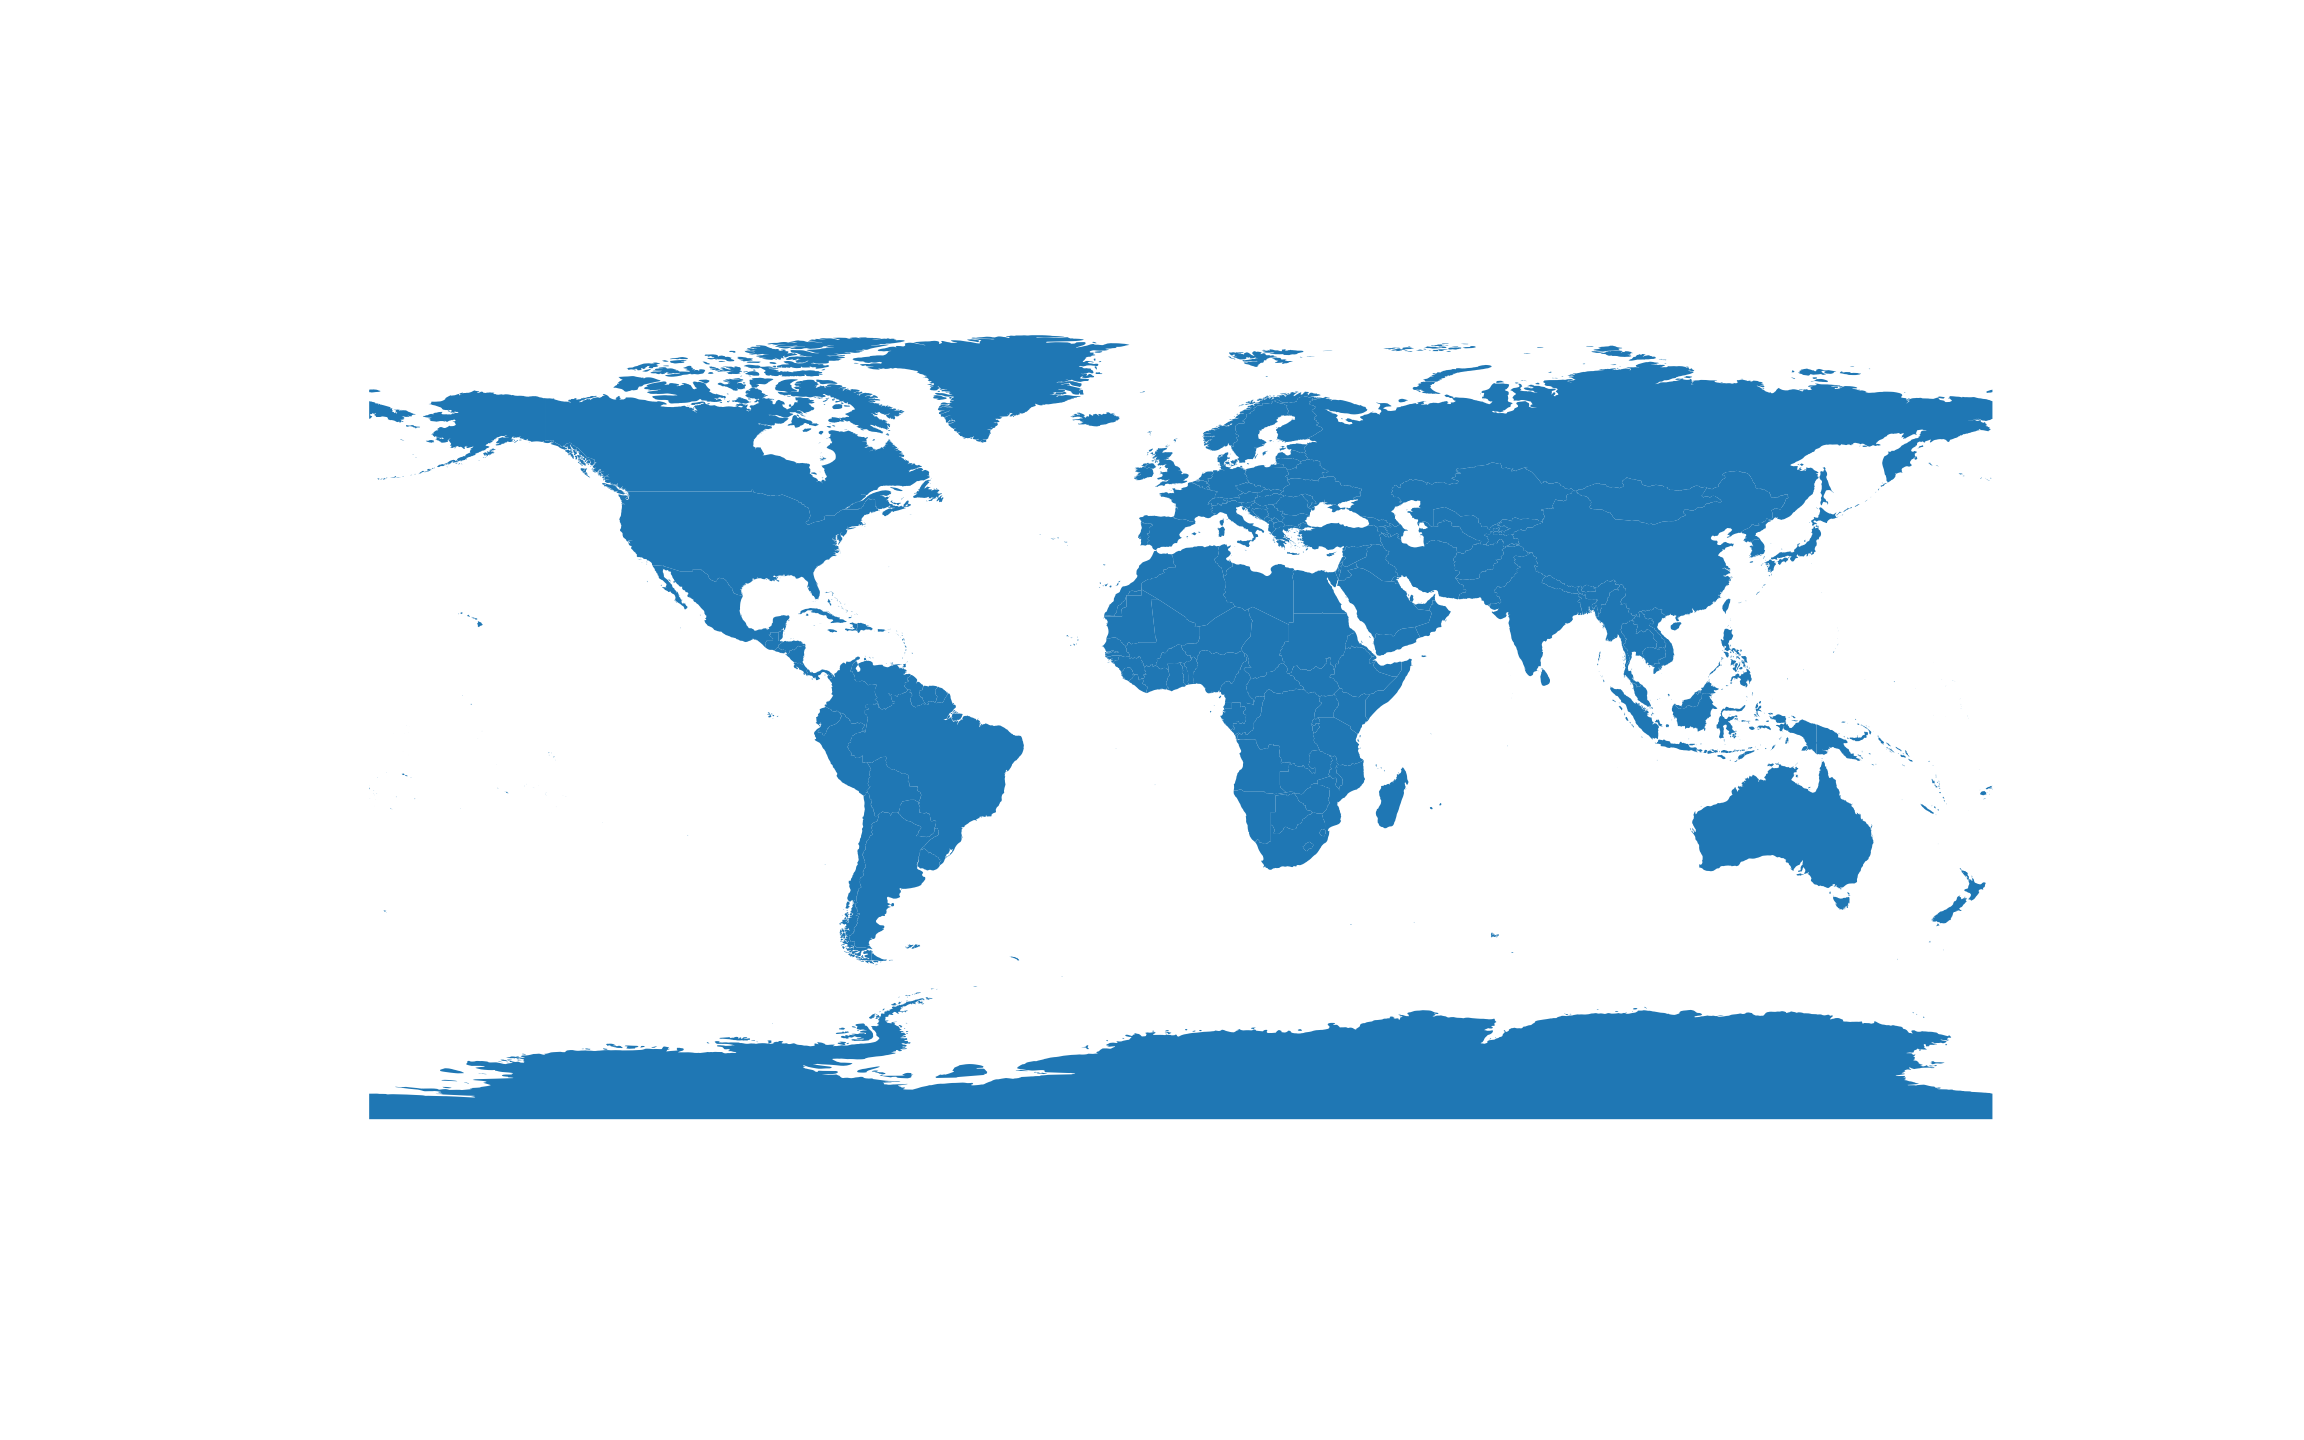
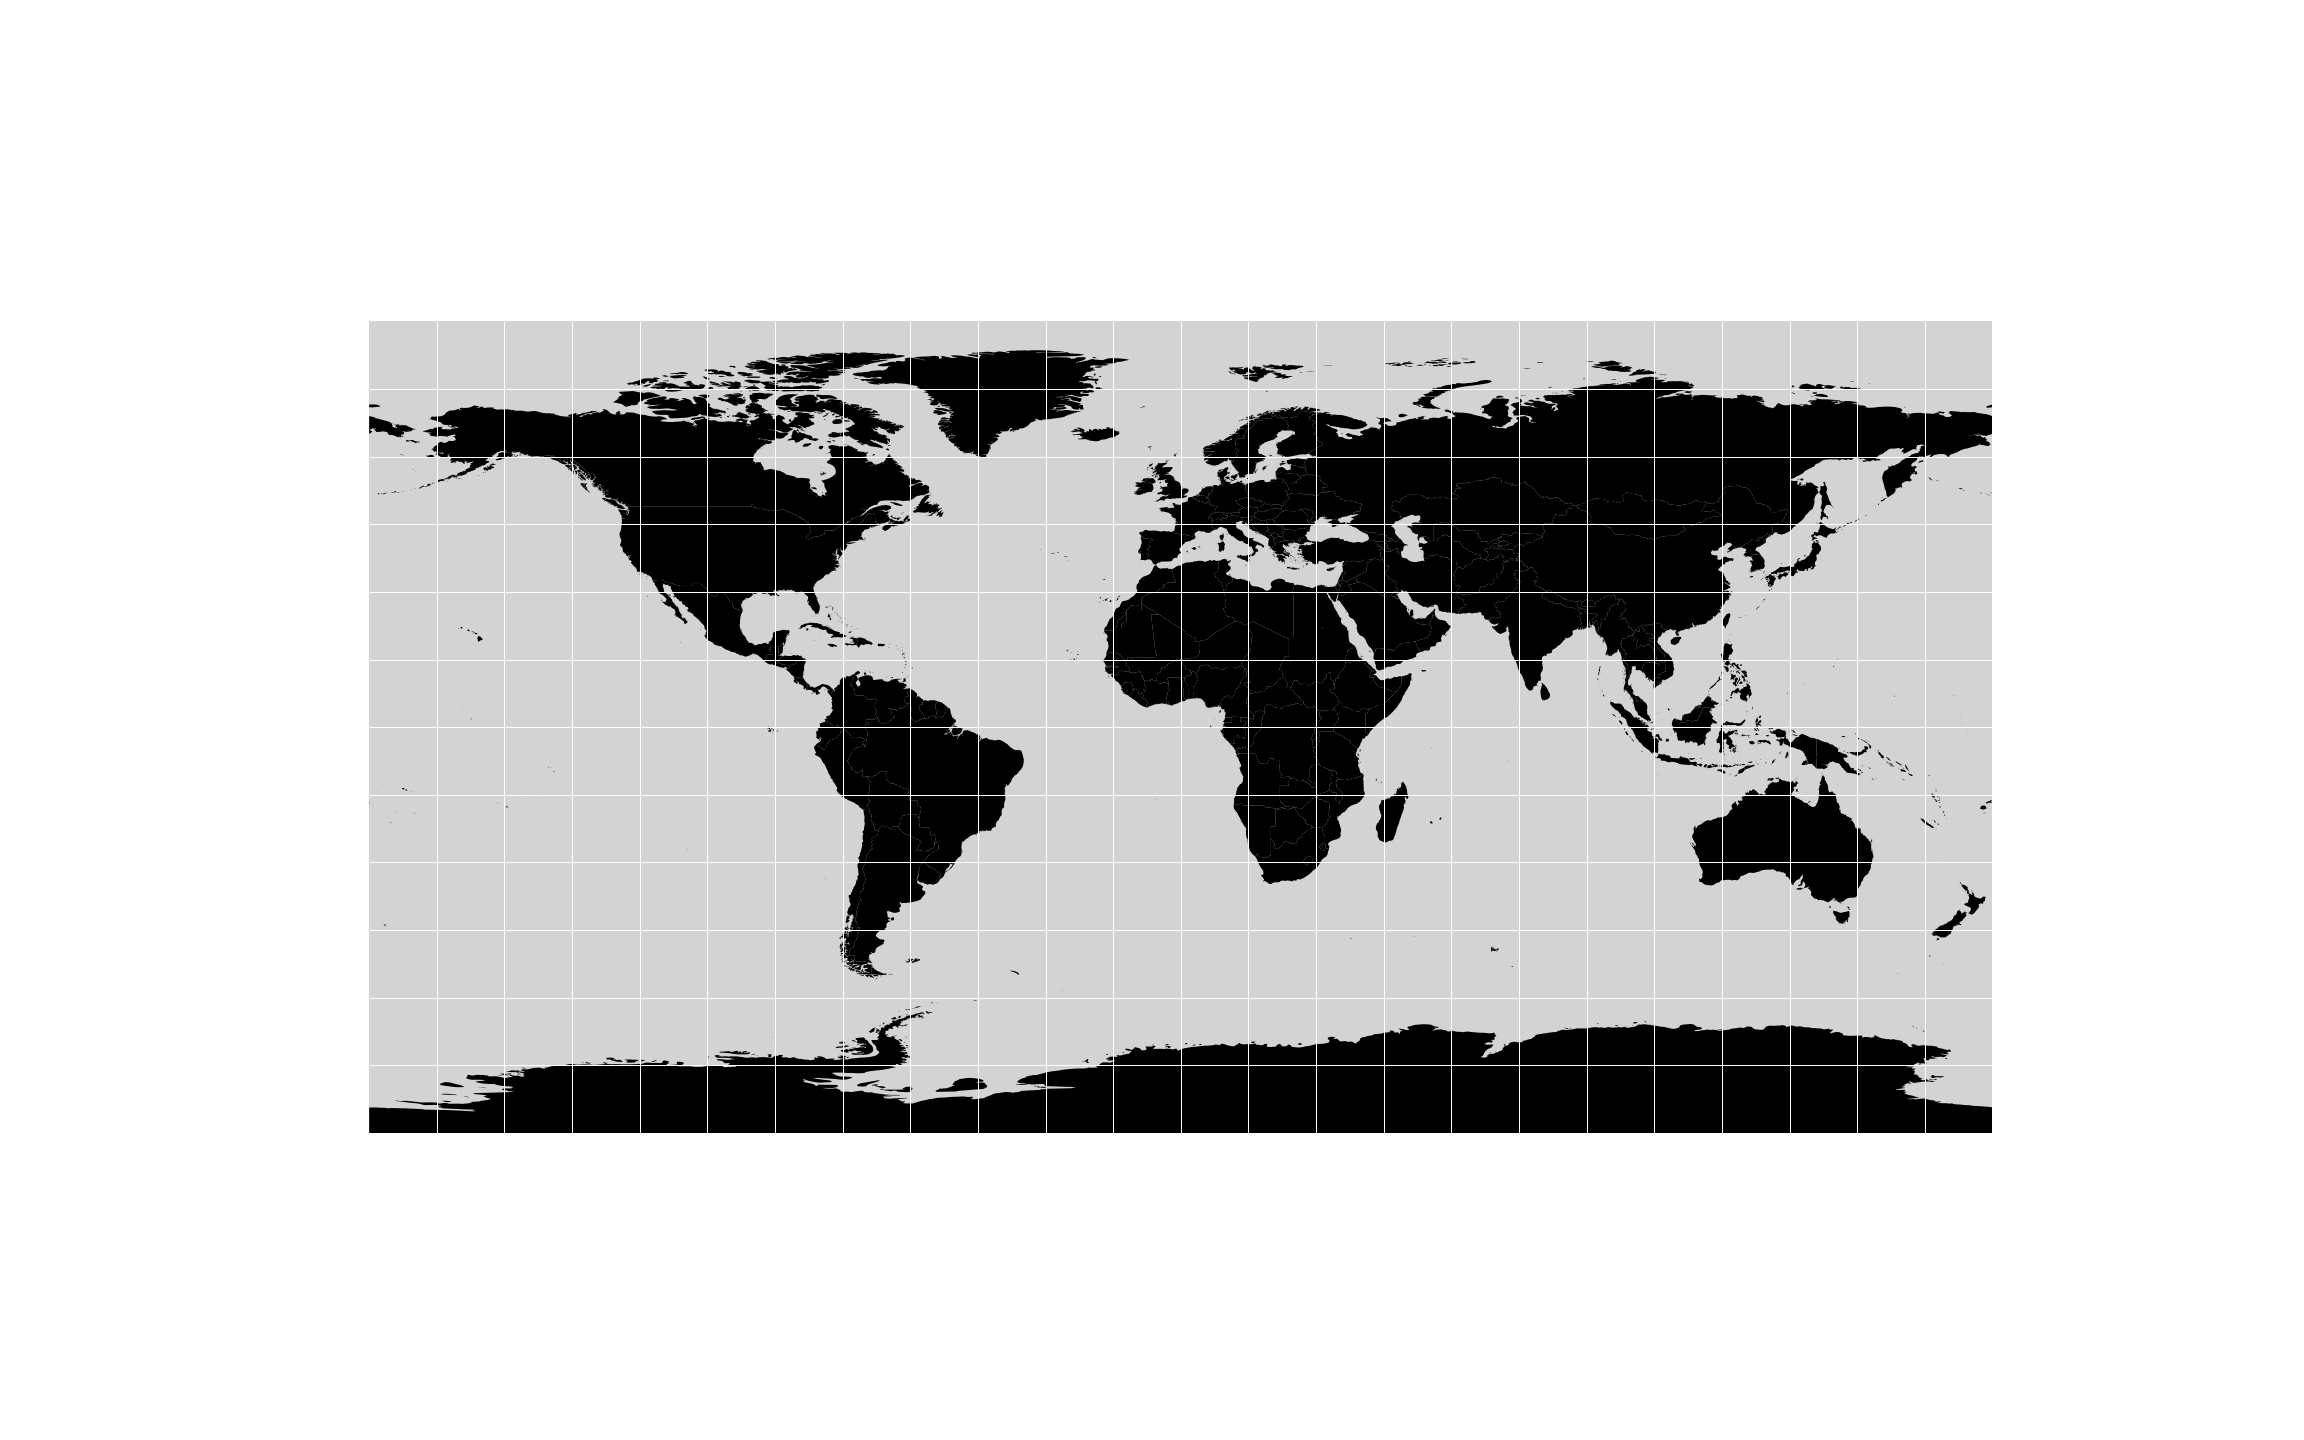
Grid Lines added

diff --git a/week1/week1.py b/week1/week1.py
@@ -1,14 +1,33 @@
 from geopandas import read_file
 
 world = read_file("../../data/natural-earth/ne_50m_admin_0_countries.shp")
-
+graticule = read_file("../../data/natural-earth/ne_110m_graticules_15.shp")
+bbox = read_file("../../data/natural-earth/ne_110m_wgs84_bounding_box.shp")
 print(world.head())
 from matplotlib.pyplot import subplots, savefig
 # create map axis object
 my_fig, my_ax = subplots(1, 1, figsize=(16, 10))
 
-# plot the countries onto ax
-world.plot(ax = my_ax)
+# add bounding box and graticule layers
+bbox.plot(
+    ax = my_ax,
+    color = 'lightgray',
+    linewidth = 0,
+    )
+
+# plot the countries
+world.plot(
+    ax = my_ax,
+    color = 'black',
+    linewidth = 0.5,
+    )
+
+# plot the graticule
+graticule.plot(
+    ax = my_ax,
+    color = 'white',
+    linewidth = 0.5,
+    )
 # turn off the visible axes on the map
 my_ax.axis('off')
 # save the result
